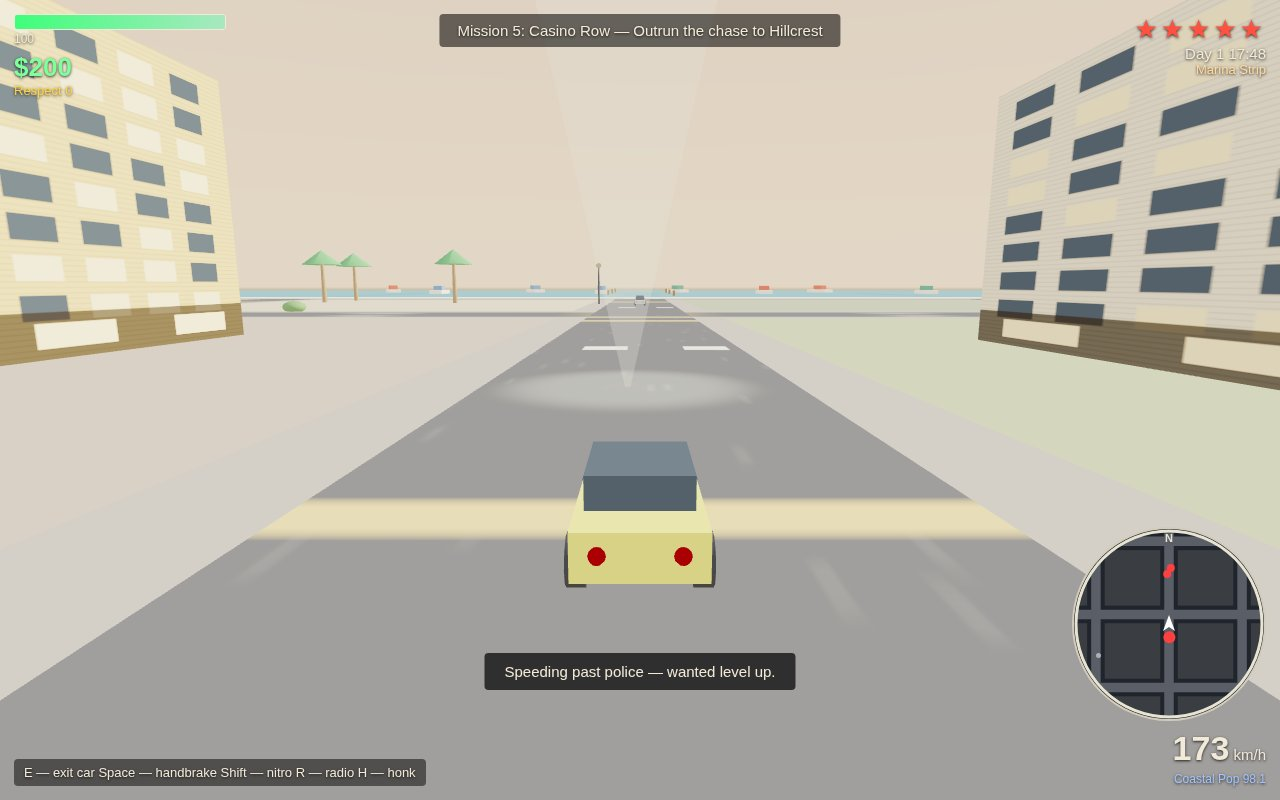
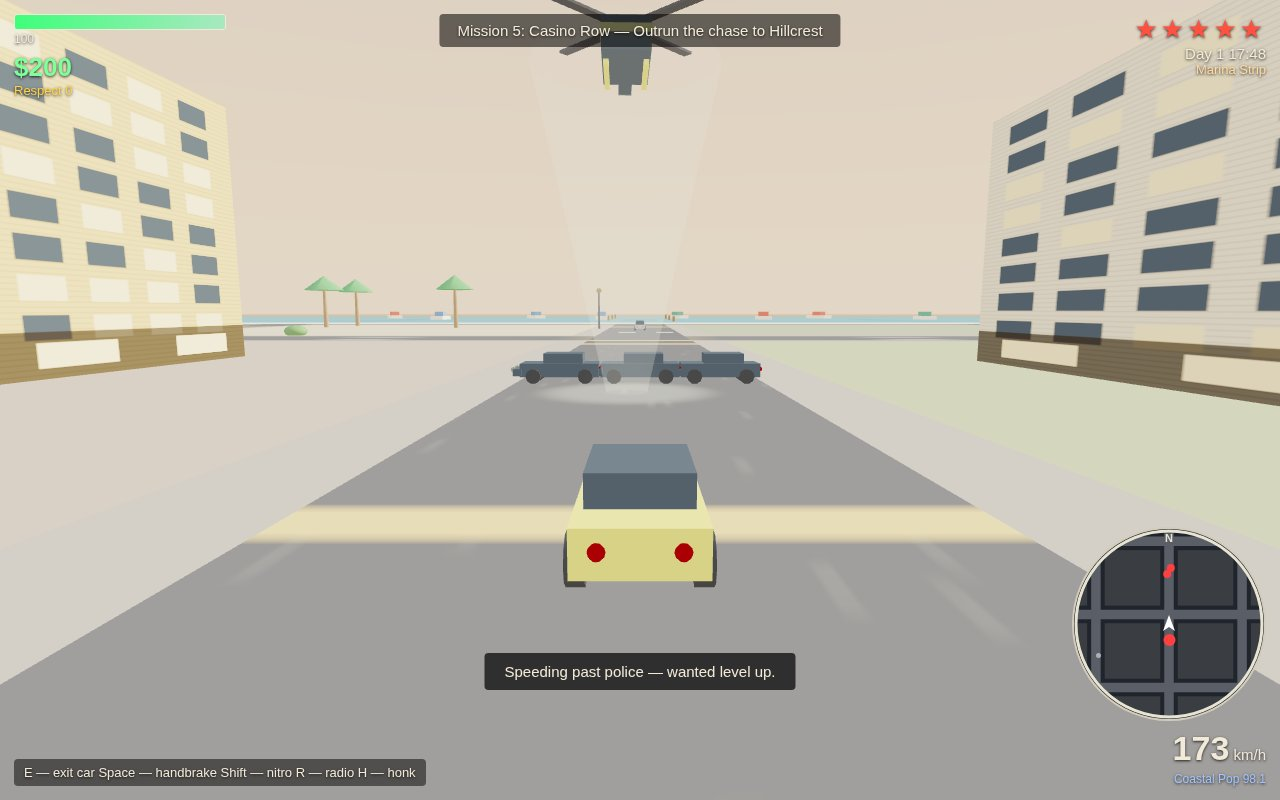
Shot restage: onfoot diagonal + gathered peds, mission clear of tower wall, flash offset to gun side

diff --git a/game/src/shots.js b/game/src/shots.js
@@ -40,14 +40,15 @@ export function stageShot(world, mode) {
   }
 
   if (mode === 'onfoot') {
-    // Mara on foot on the Mercado sidewalk, storefronts on one side,
-    // road and pedestrians on the other.
+    // Mara on foot in Mercado Quarter: diagonal view down the sidewalk
+    // so storefronts, the avenue and pedestrians share the frame.
     world.startMission(0);
-    world.teleport(50, 9.5);
-    s.player.heading = Math.PI / 2; // east, along the sidewalk
-    s.camYaw = Math.PI / 2;
+    world.teleport(60, 9.5);
+    s.player.heading = Math.PI * 1.75; // south-west, down the sidewalk
+    s.camYaw = Math.PI * 1.75;
     s.camPitch = 0.32;
     s.clockMinutes = 17 * 60 + 20;
+    world.gatherPeds([[48, 4], [54, 14], [44, 16], [58, 2]]);
     input.testDown('KeyW'); // stroll forward
     return { holdKeys: ['KeyW'] };
   }
@@ -67,20 +68,21 @@ export function stageShot(world, mode) {
 
   if (mode === 'mission') {
     // Mission 6 rooftop combat: witness, rival crew, pistol out.
-    // Face north-west so the Hillcrest tower fills the background.
+    // Stand clear of the tower wall so it reads as background, foes
+    // approaching from the north-west, witness close by.
     world.giveRespect(40);
     world.startMission(5); // mission 6 (index 5)
-    world.teleport(350, -128);
+    world.teleport(350, -105);
     s.player.heading = Math.PI * 1.25;
     s.camYaw = Math.PI * 1.25;
     s.camPitch = 0.3;
     s.clockMinutes = 18 * 60 + 5;
     world.giveWeapon('pistol', 24);
-    world.spawnWitness(346, -136);
+    world.spawnWitness(344, -98);
     // jump to the combat step and spawn the crew
     world.missions.stepIndex = 1;
     world.missions.foesLeft = 4;
-    world.combat.spawnFoes(350, -120, 4);
+    world.combat.spawnFoes(330, -115, 4);
     return { holdKeys: [] };
   }
 

diff --git a/game/src/world.js b/game/src/world.js
@@ -693,6 +693,16 @@ export function createWorld(opts) {
     giveWeapon(w, ammo) { state.weapon = w; state.ammo = ammo; },
     hurt(n) { damagePlayer(n); },
     spawnWitness,
+    // Shot staging: move the first few walking pedestrians to fixed spots
+    // so a frame can guarantee a crowd (deterministic: array order).
+    gatherPeds(spots) {
+      const walking = peds.peds.filter((p) => p.state === 'walk');
+      for (let i = 0; i < Math.min(spots.length, walking.length); i++) {
+        walking[i].pos.x = spots[i][0];
+        walking[i].pos.z = spots[i][1];
+        walking[i].heading = Math.PI * (0.2 + i * 0.35);
+      }
+    },
     snapCamera() {
       const target = state.inCar
         ? { x: state.inCar.pos.x, y: 1, z: state.inCar.pos.z }

diff --git a/game/src/combat.js b/game/src/combat.js
@@ -105,7 +105,13 @@ export function createCombat(scene, rng, ctx) {
       ctx.audio.gunshot();
       const p = ctx.playerPos();
       const h = ctx.playerHeading();
-      flash.position.set(p.x + Math.sin(h) * 1.4, 1.35, p.z + Math.cos(h) * 1.4);
+      // flash sits at the gun, off to the player's right, so it reads as
+      // a muzzle flash instead of a halo over the head
+      flash.position.set(
+        p.x + Math.sin(h) * 1.4 + Math.cos(h) * 0.7,
+        1.35,
+        p.z + Math.cos(h) * 1.4 - Math.sin(h) * 0.7
+      );
       flash.material.opacity = 0.8;
       flashAt = ctx.state.clock;
       ctx.onShotFired({ x: p.x, z: p.z });
